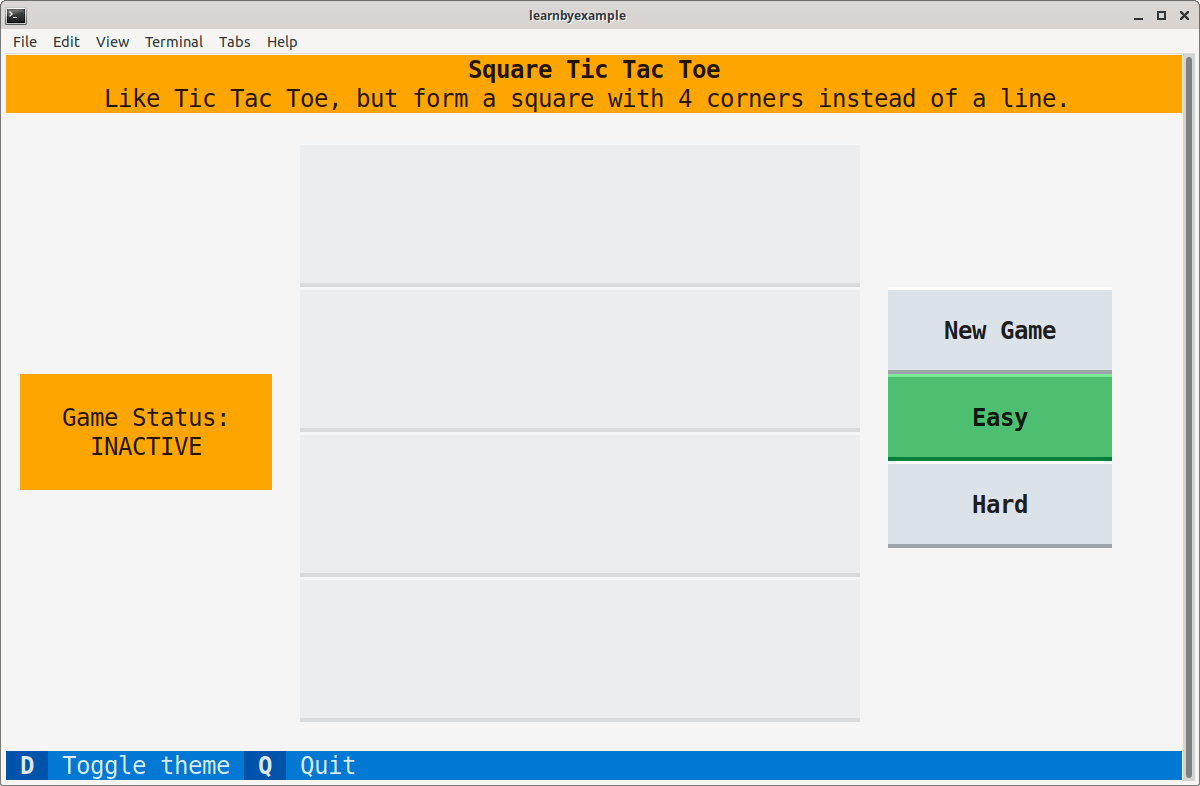
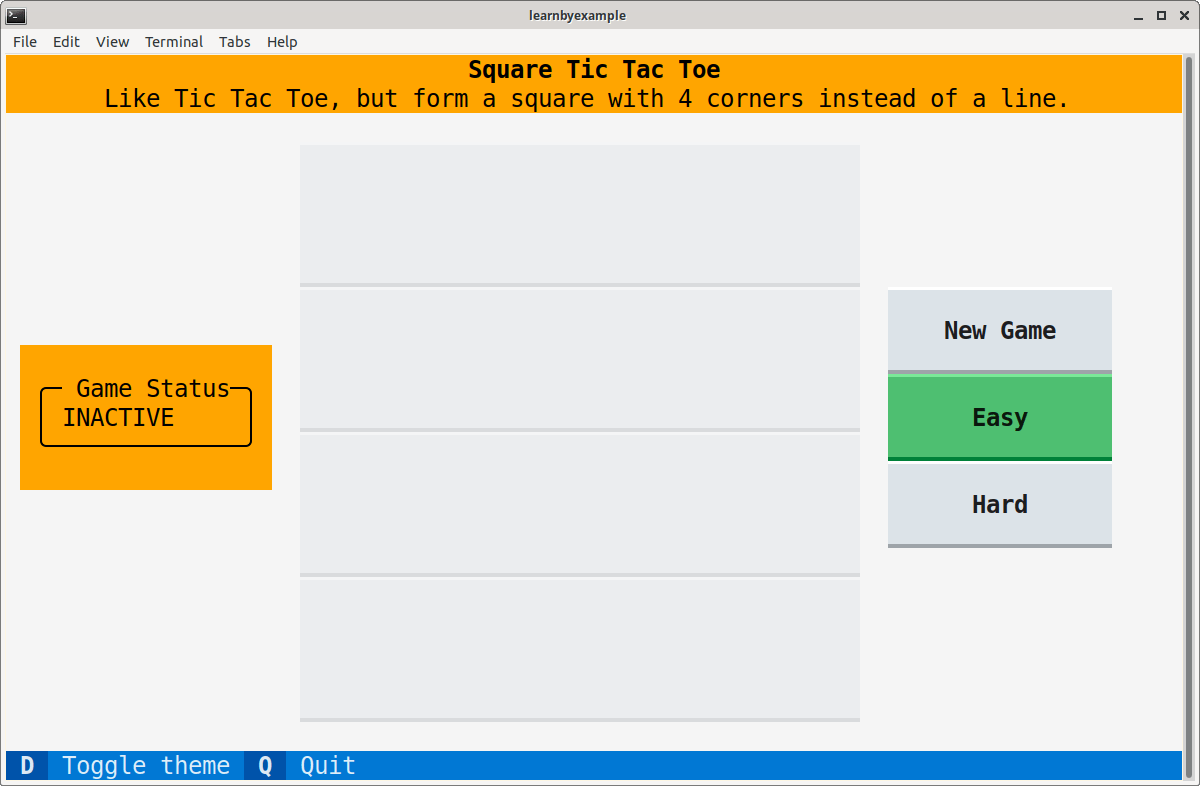
panel for game status, misc changes

diff --git a/SquareTicTacToe/square_tictactoe.css b/SquareTicTacToe/square_tictactoe.css
@@ -3,6 +3,7 @@
     text-align: center;
     width: 100%;
     background: orange;
+    color: black;
 }
 
 #info {
@@ -13,6 +14,7 @@
     background: orange;
     margin: 1;
     padding: 1;
+    color: black;
 }
 
 Button:focus {

diff --git a/SquareTicTacToe/square_tictactoe.py b/SquareTicTacToe/square_tictactoe.py
@@ -3,23 +3,25 @@ from textual.binding import Binding
 from textual.containers import Container
 from textual.widgets import Button, Header, Footer, Label
 from typing import List
+from rich.panel import Panel
 import random
+from functools import partial
 
 class SquareTicTacToeApp(App):
     """Square Tic Tac Toe game."""
 
     CSS_PATH = "square_tictactoe.css"
     BINDINGS = [
-        ("d", "toggle_dark", "Toggle theme"),
-        Binding("ctrl+c,q", "app.quit", "Quit", show=True),
+        ("d", "toggle_theme", "Toggle theme"),
+        Binding("q", "app.quit", "Quit", show=True),
     ]
 
     def __init__(self) -> None:
         super().__init__()
 
         self.active = "ACTIVE"
-        self.state_prefix = "Game Status:\n"
-        self.state = f"{self.state_prefix}INACTIVE"
+        self.state = "INACTIVE"
+        self.state_panel = partial(Panel, title='Game Status')
         self.corners = 4
         self.total_cells = 16
         self.easy, self.hard = (0, 1)
@@ -38,7 +40,7 @@ class SquareTicTacToeApp(App):
                             (2, 5, 7, 10), (5, 8, 10, 13), (6, 9, 11, 14),
                             (1, 7, 8, 14), (2, 4, 11, 13))
 
-        self.status = Label(renderable=self.state, id="info")
+        self.status = Label(renderable=self.state_panel(self.state), id="info")
         self.new_game = Button(label="New Game", id="new game")
         self.choice = (Button(label="Easy", id="easy", variant="success"),
                        Button(label="Hard", id="hard", variant="default"))
@@ -94,7 +96,7 @@ class SquareTicTacToeApp(App):
         self.ai["last_move"] = 0
         self.user["last_move"] = 0
         self.state = self.active
-        self.status.update(self.state_prefix + self.state)
+        self.status.update(self.state_panel(self.state))
         if self.choice[0].variant == "success":
             self.difficulty = self.easy
         else:
@@ -127,7 +129,7 @@ class SquareTicTacToeApp(App):
         else:
             if self.state == self.active and not self.available_moves:
                 self.state = "TIE"
-        self.status.update(self.state_prefix + self.state)
+        self.status.update(self.state_panel(self.state))
 
     def ai_response(self) -> None:
         """Move made by AI based on Easy/Hard modes."""
@@ -207,8 +209,8 @@ class SquareTicTacToeApp(App):
             for i in square:
                 self.cell_buttons[i].variant = player["variant_win"]
 
-    def action_toggle_dark(self) -> None:
-        """An action to toggle dark mode."""
+    def action_toggle_theme(self) -> None:
+        """An action to toggle theme."""
 
         self.dark = not self.dark
 

diff --git a/SquareTicTacToe/README.md b/SquareTicTacToe/README.md
@@ -18,26 +18,26 @@ $ pip install textual
 
 $ git clone --depth 1 https://github.com/learnbyexample/TUI-apps.git
 $ cd TUI-apps/SquareTicTacToe
-$ python3 square_tictactoe.py
+$ python square_tictactoe.py
 ```
 
 You should get a screen similar to the one shown below:
 
 <p align="center"><img src="./square_tictactoe.png" alt="Square Tic Tac Toe initial screen" /></p>
 
-# Game controls
+# Guide
 
 * Click the **New Game** button to start a new game. Existing game, if any, will be abandoned.
 * You can choose between **Easy** (default) and **Hard** modes by clicking those buttons.
     * In *Easy* mode, the AI will make the first move with a 50% chance and afterwards it will make a move randomly in response to user moves.
     * In *Hard* mode, the AI will always make the first move and at best you'll be able to TIE the game ;)
     * These choices will come into effect only after a new game is started.
-* Press **d** key to switch between light and dark themes.
+* Press **d** key to toggle between light and dark themes.
 * Press **q** key or **Ctrl+c** to quit the app.
 
 User moves are denoted by the ⭕ character and AI moves are denoted by the ✖  character.
 
-The text area to the left of the game board displays the current status of the game. If the game ends with one of the players forming a valid square, the winning square will be highlighted.
+The text panel to the left of the game board displays the current status of the game. If the game ends with one of the players forming a valid square, the winning square will be highlighted.
 
 # Blog post
 
